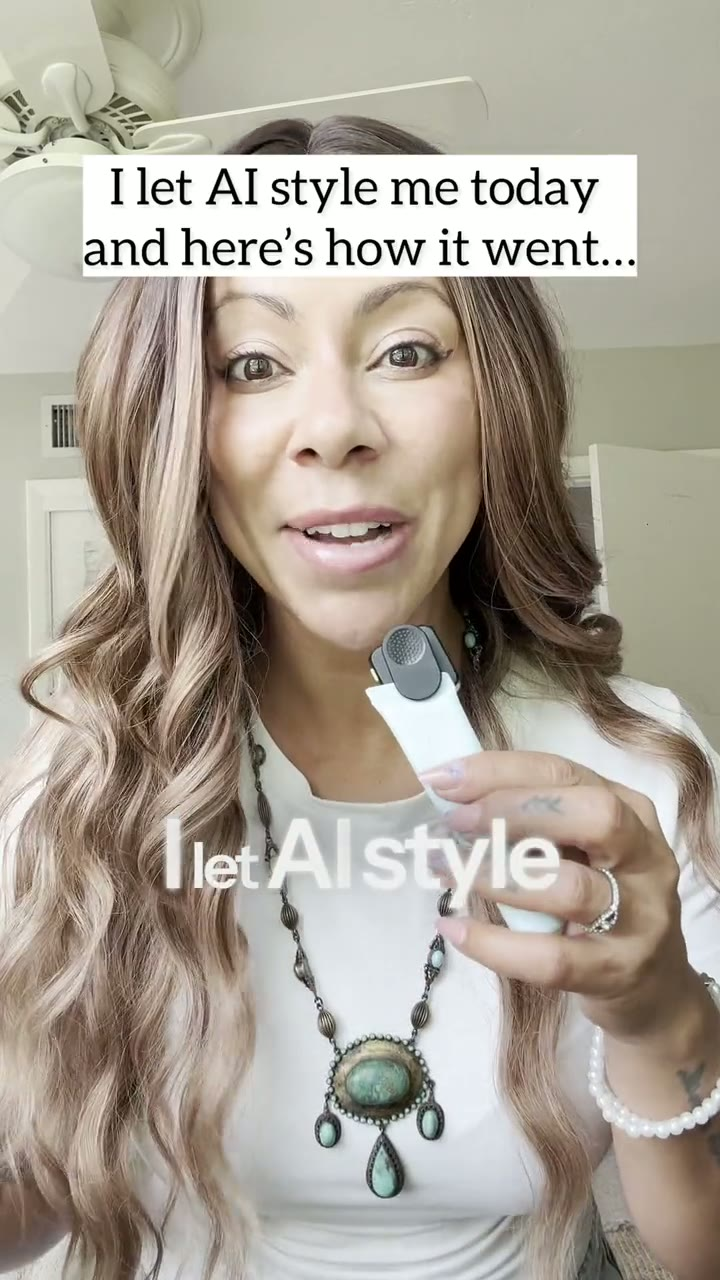
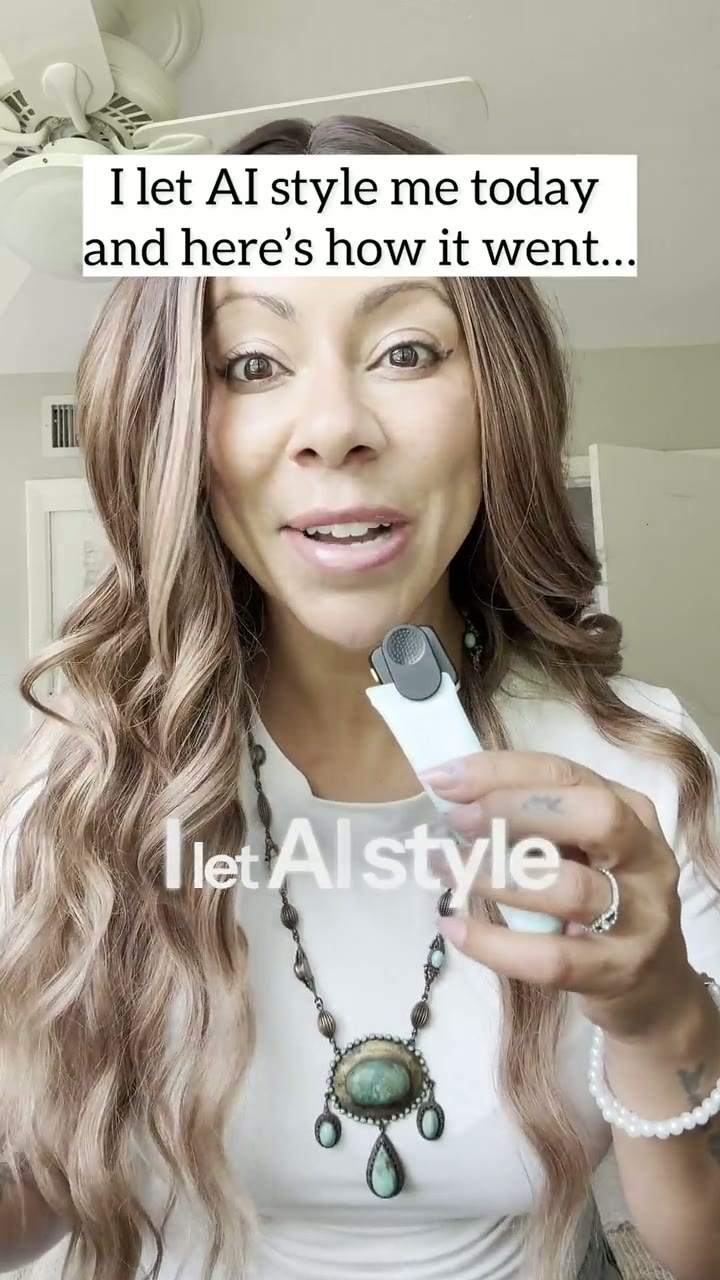
Fix landing on mobile: nav dropdown stealing taps + video playback (#50)
* Landing: fix demo video not playing on mobile (Android Firefox)

Symptom: the hero video showed only flashing frames on mobile Firefox
instead of playing.

Two fixes:
- Re-encode demo.mp4 to H.264 **Main profile, no B-frames** (was High +
  B-frames). B-frames + High profile are the classic trigger for glitchy /
  flashing playback on Android hardware decoders. Main without B-frames is
  universally supported. (yuv420p, level 4.0, +faststart, AAC retained.)
- Harden JS playback (initHeroVideo): force the muted *property* (more
  reliable than the attribute on mobile), retry play() when the hero scrolls
  into view, and — if autoplay is still blocked — reveal a tap-to-play button
  overlay so the user can start it. Tapping the video also starts it.

Also folds in the landing deploy config that was applied during the earlier
deploy but not yet committed:
- nginx.conf: add mp4 to the 30-day immutable cache block.
- .gcloudignore: ship only demo.mp4 from assets/videos/ (keep the 166 MB HEVC
  master out of the Cloud Run image; 185 MiB -> ~50 MiB upload).

Video binaries remain gitignored; demo.mp4 ships via the deploy build context.

* Landing video: document 32 MiB Cloud Run limit + final encode

Re-encoded demo.mp4 to Main/no-B-frames at a smaller bitrate so it stays
under Cloud Run's 32 MiB non-streamed response limit. The 37 MB version was
returning 500 on full / open-ended-range GETs (what <video> sends), which
[…]

Changed region(s): [[0.275, 0.5312, 0.3056, 0.5625], [0.2444, 0.5625, 0.275, 0.5938]]

diff --git a/landing/js/main.js b/landing/js/main.js
@@ -97,22 +97,61 @@ function initSmoothScroll() {
   });
 }
 
-// ----- Demo video sound toggle -----
-// Video autoplays muted (browsers block autoplay with sound). The toggle
-// flips muted and reflects state via aria-pressed, which drives the icon
-// swap in CSS.
-function initSoundToggle() {
-  const btn = document.getElementById('phone-sound-toggle');
+// ----- Demo video: robust autoplay + sound toggle -----
+// The video autoplays muted (browsers block autoplay with sound). Mobile
+// browsers — notably Firefox on Android — are inconsistent about honouring the
+// `autoplay`/`muted` attributes, which can leave the hero showing broken /
+// flashing frames. So we drive playback from JS too: force the muted *property*
+// (more reliable than the attribute), kick off play(), retry when the hero
+// scrolls into view, and if it's still blocked reveal a tap-to-play button.
+function initHeroVideo() {
   const video = document.querySelector('.phone-video');
-  if (!btn || !video) return;
-  btn.addEventListener('click', () => {
-    video.muted = !video.muted;
-    const on = !video.muted;
-    btn.setAttribute('aria-pressed', String(on));
-    btn.setAttribute('aria-label', on ? 'Mute demo video' : 'Unmute demo video');
-    // Unmuting after autoplay sometimes needs an explicit play() nudge.
-    if (on) video.play().catch(() => {});
-  });
+  if (!video) return;
+  const soundBtn = document.getElementById('phone-sound-toggle');
+  const playOverlay = document.getElementById('phone-play-overlay');
+
+  // Property is more reliable than the attribute for muted autoplay on mobile.
+  video.muted = true;
+
+  const showPlayButton = () => { if (playOverlay) playOverlay.hidden = false; };
+  const hidePlayButton = () => { if (playOverlay) playOverlay.hidden = true; };
+
+  const attemptPlay = () => {
+    const p = video.play();
+    if (p && typeof p.then === 'function') {
+      p.then(hidePlayButton).catch(showPlayButton);
+    }
+  };
+
+  // Initial autoplay attempt.
+  attemptPlay();
+
+  // Some mobile browsers only allow playback once the element is on screen.
+  if ('IntersectionObserver' in window) {
+    const io = new IntersectionObserver((entries) => {
+      entries.forEach((entry) => {
+        if (entry.isIntersecting && video.paused) attemptPlay();
+      });
+    }, { threshold: 0.25 });
+    io.observe(video);
+  }
+
+  // Tap-to-play fallbacks (the overlay button and the video itself).
+  if (playOverlay) playOverlay.addEventListener('click', attemptPlay);
+  video.addEventListener('click', () => { if (video.paused) attemptPlay(); });
+  video.addEventListener('playing', hidePlayButton);
+
+  // Sound toggle — flip muted, reflect via aria-pressed (drives the CSS icon
+  // swap), and nudge play() on unmute.
+  if (soundBtn) {
+    soundBtn.addEventListener('click', () => {
+      video.muted = !video.muted;
+      const on = !video.muted;
+      soundBtn.setAttribute('aria-pressed', String(on));
+      soundBtn.setAttribute('aria-label', on ? 'Mute demo video' : 'Unmute demo video');
+      if (on) video.play().catch(() => {});
+    });
+  }
 }
 
 document.addEventListener('DOMContentLoaded', () => {
@@ -121,5 +160,5 @@ document.addEventListener('DOMContentLoaded', () => {
   initMobileMenu();
   initScrollAnimations();
   initSmoothScroll();
-  initSoundToggle();
+  initHeroVideo();
 });

diff --git a/landing/css/style.css b/landing/css/style.css
@@ -375,10 +375,18 @@ header {
     box-shadow: none;
     border: none;
     padding-left: 16px;
-    opacity: 1;
-    visibility: visible;
     transform: none;
     background: transparent;
+    /* Stay hidden until the mobile menu is opened. Previously this rule set
+       opacity:1/visibility:visible unconditionally — but `visibility: visible`
+       overrides the closed parent's `visibility: hidden`, and opacity:0 hides
+       it visually WITHOUT disabling taps. The result was an invisible "Legal"
+       submenu sitting over the hero that swallowed taps and sent them to the
+       legal links (e.g. imprint). Reveal it only when the menu is open. */
+  }
+  .nav-links.open .nav-dropdown-menu {
+    opacity: 1;
+    visibility: visible;
   }
 }
 
@@ -613,6 +621,17 @@ header {
 }
 .phone-screen .phone-video {
   object-fit: cover;
+  /* Firefox (esp. Android) flickers/flashes a <video> when it's clipped by a
+     rounded, overflow:hidden ancestor that's also rotated — Mozilla bugs
+     971720 + 1449904. Audio is unaffected, which is why this looked like a
+     codec issue but no re-encode fixed it. Fix: round the video on ITSELF and
+     promote it to its own GPU layer so Firefox isn't clipping a composited
+     video layer through the rotated/overflow-hidden ancestor. */
+  border-radius: 36px;
+  transform: translateZ(0);
+  -webkit-transform: translateZ(0);
+  backface-visibility: hidden;
+  -webkit-backface-visibility: hidden;
 }
 
 /* Sound toggle overlaid on the demo video. */
@@ -653,6 +672,37 @@ header {
 .phone-sound-toggle .icon-unmuted { display: none; }
 .phone-sound-toggle[aria-pressed="true"] .icon-muted { display: none; }
 .phone-sound-toggle[aria-pressed="true"] .icon-unmuted { display: block; }
+
+/* Tap-to-play overlay — revealed by JS only when autoplay is blocked
+   (e.g. mobile Firefox). Centered play button over the poster frame. */
+.phone-play-overlay {
+  position: absolute;
+  top: 50%;
+  left: 50%;
+  transform: translate(-50%, -50%);
+  z-index: 4;
+  width: 64px;
+  height: 64px;
+  display: grid;
+  place-items: center;
+  padding: 0;
+  border: none;
+  border-radius: 50%;
+  color: var(--white);
+  background: rgba(199, 38, 106, 0.82);
+  box-shadow: 0 8px 24px rgba(58, 31, 51, 0.35);
+  cursor: pointer;
+  transition: transform 0.2s ease, background 0.2s ease;
+}
+.phone-play-overlay[hidden] { display: none; }
+.phone-play-overlay:hover { transform: translate(-50%, -50%) scale(1.06); }
+.phone-play-overlay:focus-visible { outline: 2px solid var(--white); outline-offset: 2px; }
+.phone-play-overlay svg {
+  width: 26px;
+  height: 26px;
+  margin-left: 3px; /* optical centering of the triangle */
+  pointer-events: none;
+}
 
 /* Embedded SVG "screenshot" — represents a LiveSession in progress so the
    landing has a hero image even before a real device capture lands. */

diff --git a/landing/index.html b/landing/index.html
@@ -209,7 +209,7 @@
   }
   </script>
 
-  <link rel="stylesheet" href="css/style.css">
+  <link rel="stylesheet" href="css/style.css?v=20260605b">
 </head>
 <body>
 
@@ -280,18 +280,29 @@
         <!-- Phone mockup with autoplaying demo video. Starts muted (required
              for autoplay) and plays once; the sound toggle unmutes on tap.
              poster shows immediately and persists if the video 404s, since
-             the binary is hosted out of band (see .gitignore). -->
+             the binary is hosted out of band (see .gitignore).
+             Encoding constraints (see fix in PR #50):
+               - The Android Firefox "flashing" was NOT the codec — it's a
+                 Firefox compositing bug (Mozilla 971720 + 1449904): a <video>
+                 clipped by a rounded, overflow:hidden, rotated ancestor
+                 flickers. Real fix is in CSS (.phone-video gets its own
+                 border-radius + translateZ(0) layer). Encode is plain H.264
+                 Main, no B-frames, 720x1280.
+               - Keep demo.mp4 UNDER 32 MiB. Cloud Run caps non-streamed
+                 response bodies at 32 MiB; a larger file 500s on full / open-
+                 ended-range GETs (which is exactly what <video> requests). -->
         <div class="hero-phone-wrap">
           <div class="phone-frame">
             <div class="phone-screen">
               <video
                 class="phone-video"
-                src="assets/videos/demo.mp4"
-                poster="assets/hero-poster.jpg"
+                src="assets/videos/demo.mp4?v=20260605b"
+                poster="assets/hero-poster.jpg?v=20260605b"
                 autoplay
                 muted
                 playsinline
-                preload="metadata"
+                webkit-playsinline
+                preload="auto"
                 aria-label="LiveStylist live styling session demo"></video>
               <button
                 type="button"
@@ -307,6 +318,18 @@
                 <svg class="icon-unmuted" viewBox="0 0 24 24" fill="none" stroke="currentColor" stroke-width="2" stroke-linecap="round" stroke-linejoin="round" aria-hidden="true">
                   <polygon points="11 5 6 9 2 9 2 15 6 15 11 19 11 5"/>
                   <path d="M19.07 4.93a10 10 0 0 1 0 14.14M15.54 8.46a5 5 0 0 1 0 7.07"/>
+                </svg>
+              </button>
+              <!-- Shown by JS only when autoplay is blocked (e.g. mobile
+                   Firefox), so the user can tap to start the demo. -->
+              <button
+                type="button"
+                class="phone-play-overlay"
+                id="phone-play-overlay"
+                hidden
+                aria-label="Play demo video">
+                <svg viewBox="0 0 24 24" fill="currentColor" aria-hidden="true">
+                  <polygon points="6 4 20 12 6 20 6 4"/>
                 </svg>
               </button>
             </div>
@@ -576,6 +599,6 @@
     </div>
   </footer>
 
-  <script src="js/main.js"></script>
+  <script src="js/main.js?v=20260605b"></script>
 </body>
 </html>